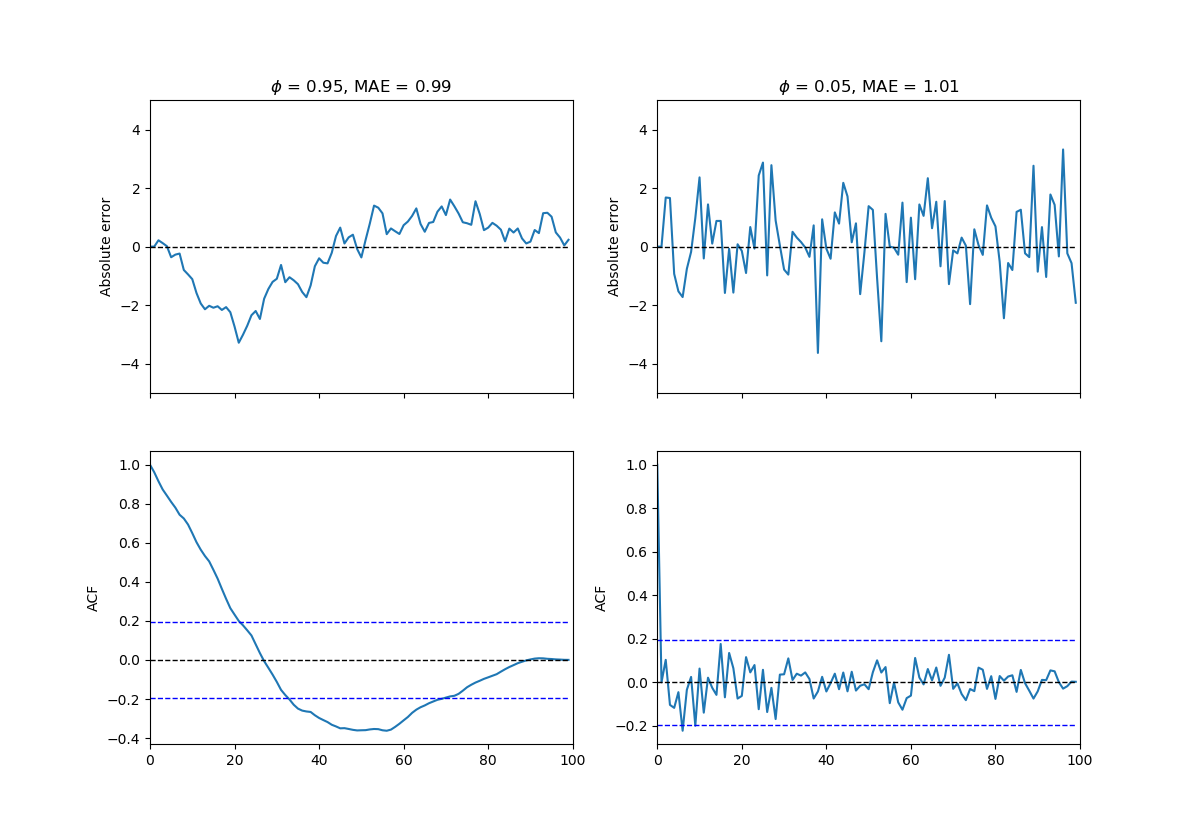
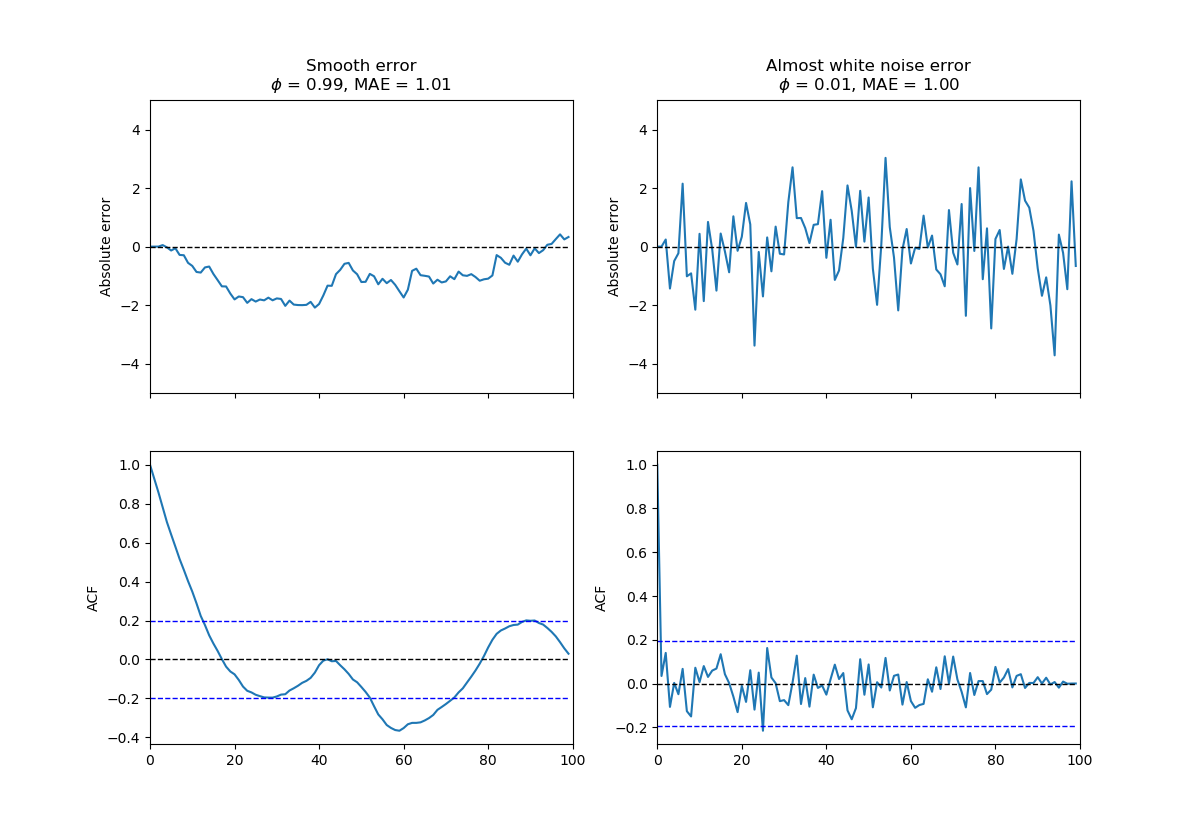
Update example.png

diff --git a/src/errgen.py b/src/errgen.py
@@ -66,8 +66,8 @@ if __name__ == "__main__":
 
     # Generate and plot one error vector and its ACF
     # ==============================================
-    phi1 = 0.95
-    phi2 = 0.05
+    phi1 = 0.99
+    phi2 = 0.01
     n = 100
     mae = 1
 
@@ -88,7 +88,7 @@ if __name__ == "__main__":
 
     ax = axes[0][0]
     ax.plot(e1)
-    ax.set_title(r"$\phi$ = {}, MAE = {:.2f}".format(phi1, mae1))
+    ax.set_title("Smooth error\n$\phi$ = {}, MAE = {:.2f}".format(phi1, mae1))
     ax.set_ylabel("Absolute error")
     ax.set_ylim(-5 * mae, 5 * mae)
     ax.plot(np.zeros(e1.size), 'k--', lw=1)
@@ -103,7 +103,7 @@ if __name__ == "__main__":
 
     ax = axes[0][1]
     ax.plot(e2)
-    ax.set_title(r"$\phi$ = {}, MAE = {:.2f}".format(phi2, mae2))
+    ax.set_title("Almost white noise error\n$\phi$ = {}, MAE = {:.2f}".format(phi2, mae2))
     ax.set_ylabel("Absolute error")
     ax.set_ylim(-5 * mae, 5 * mae)
     ax.plot(np.zeros(e2.size), 'k--', lw=1)
